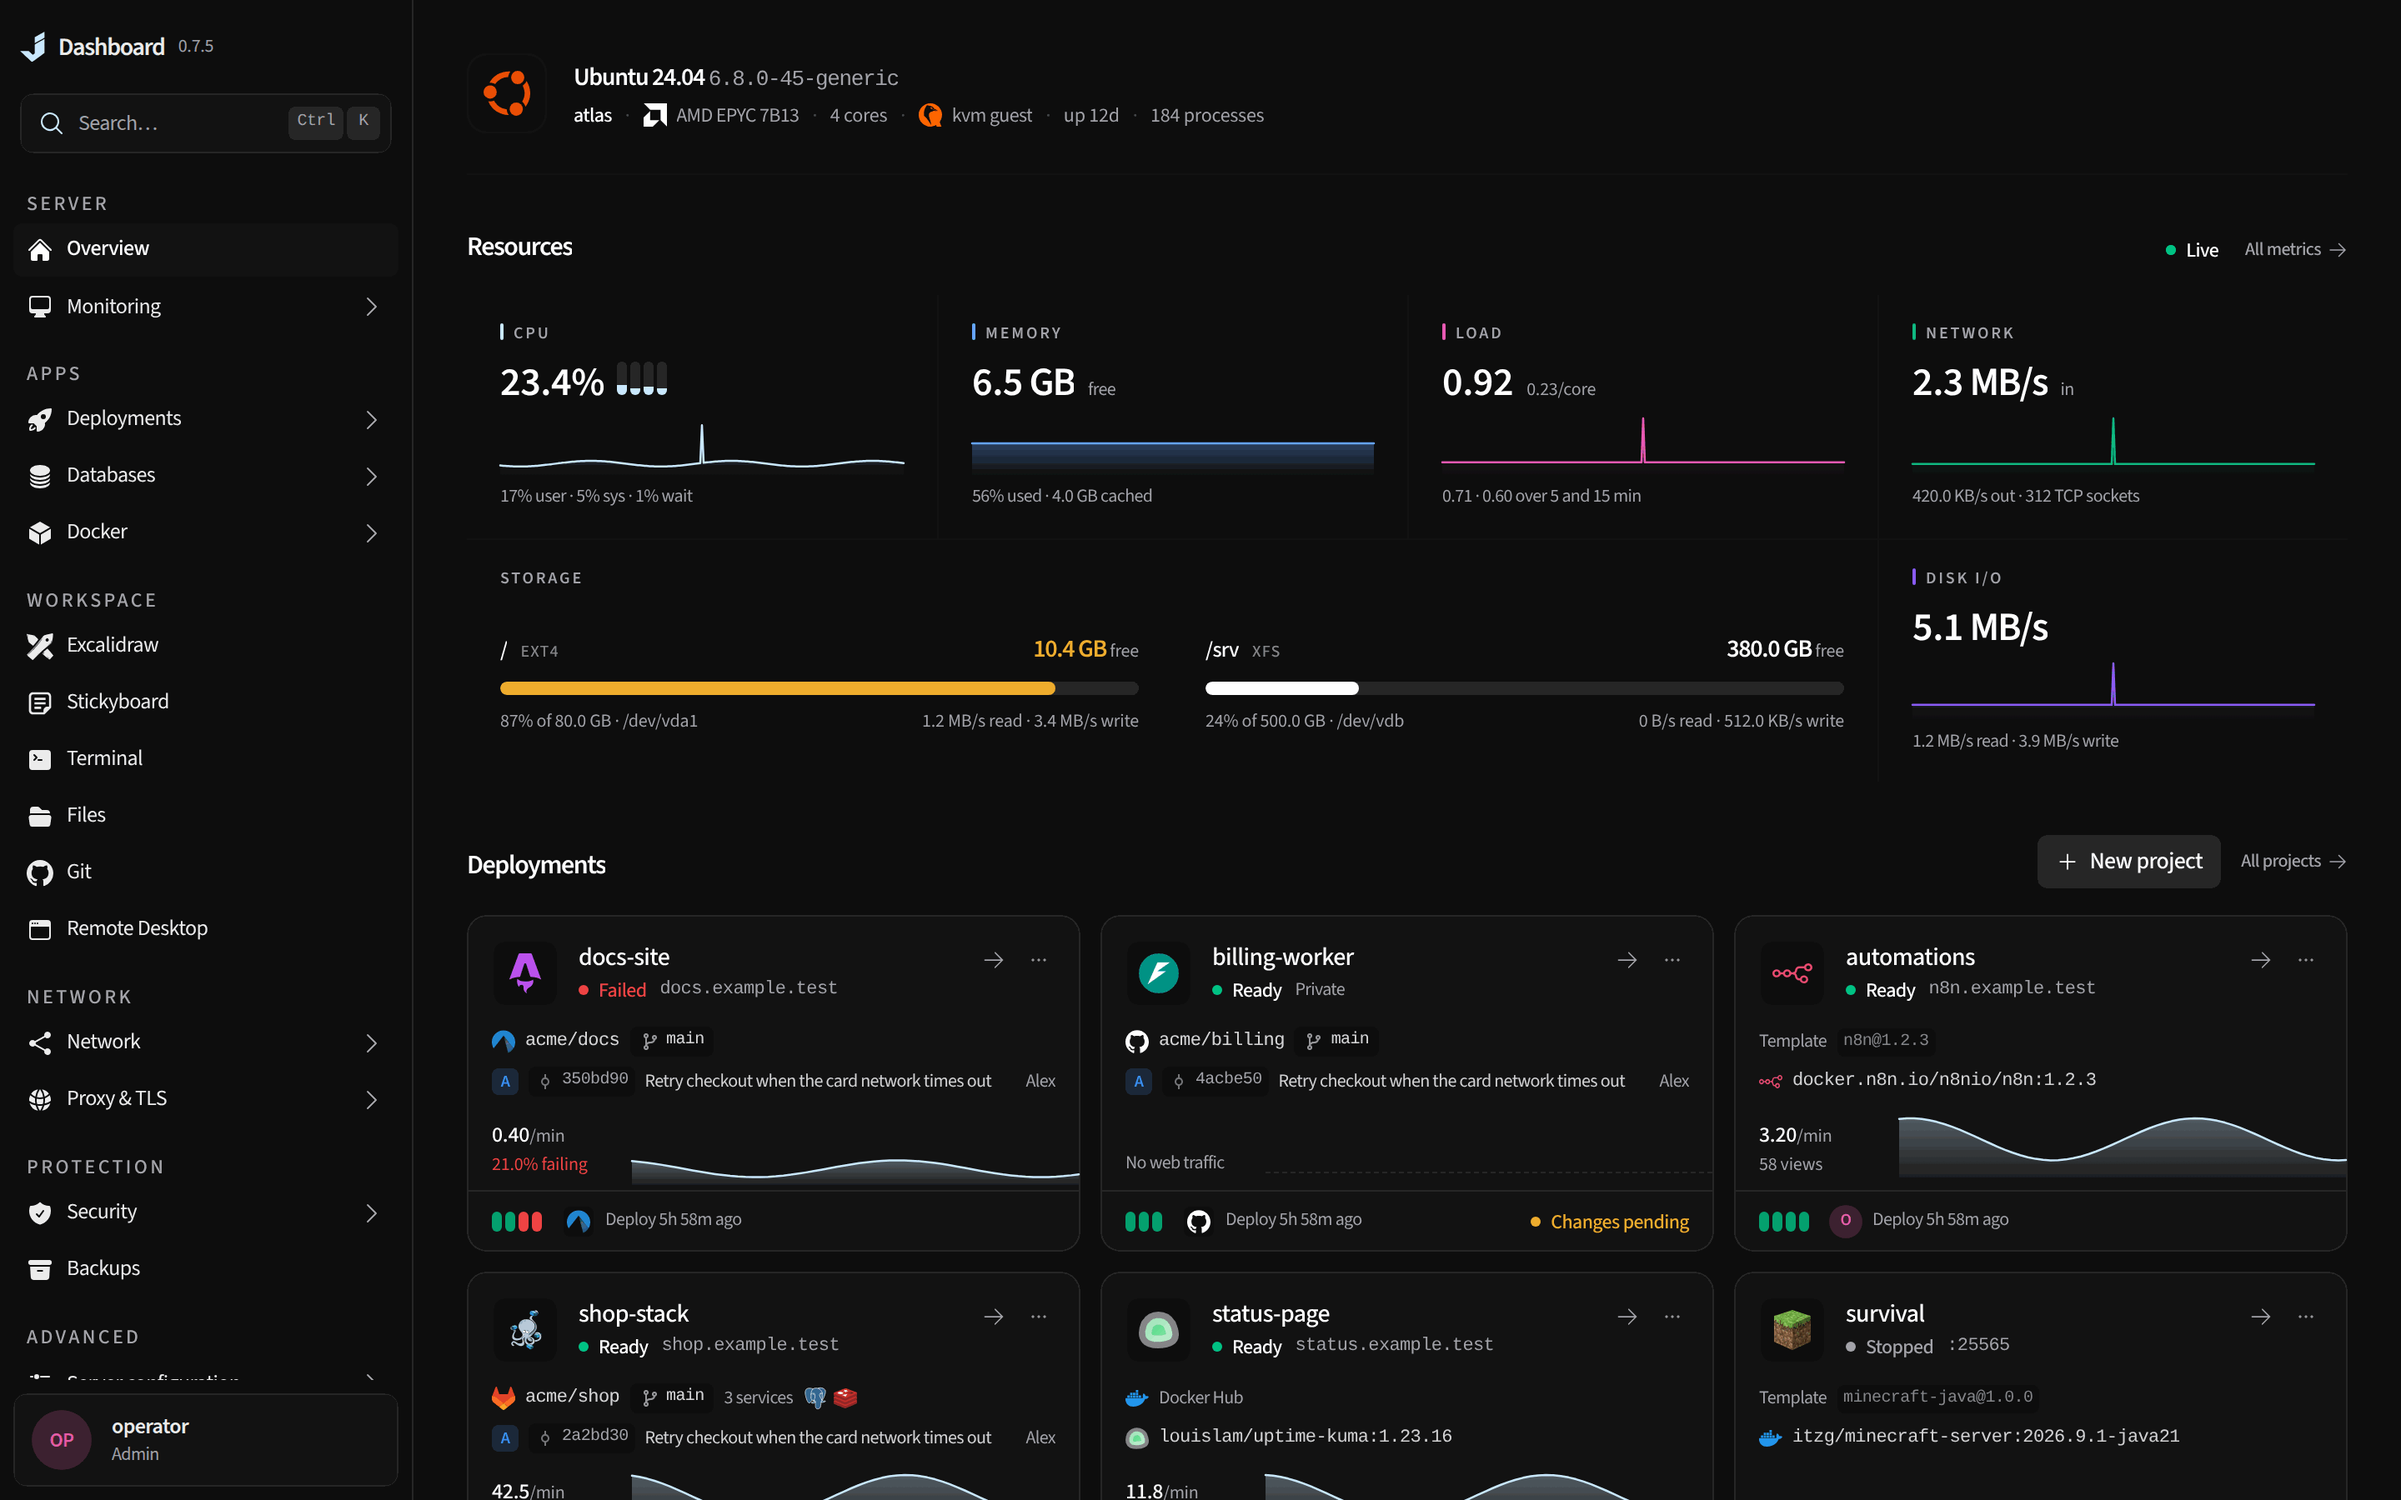
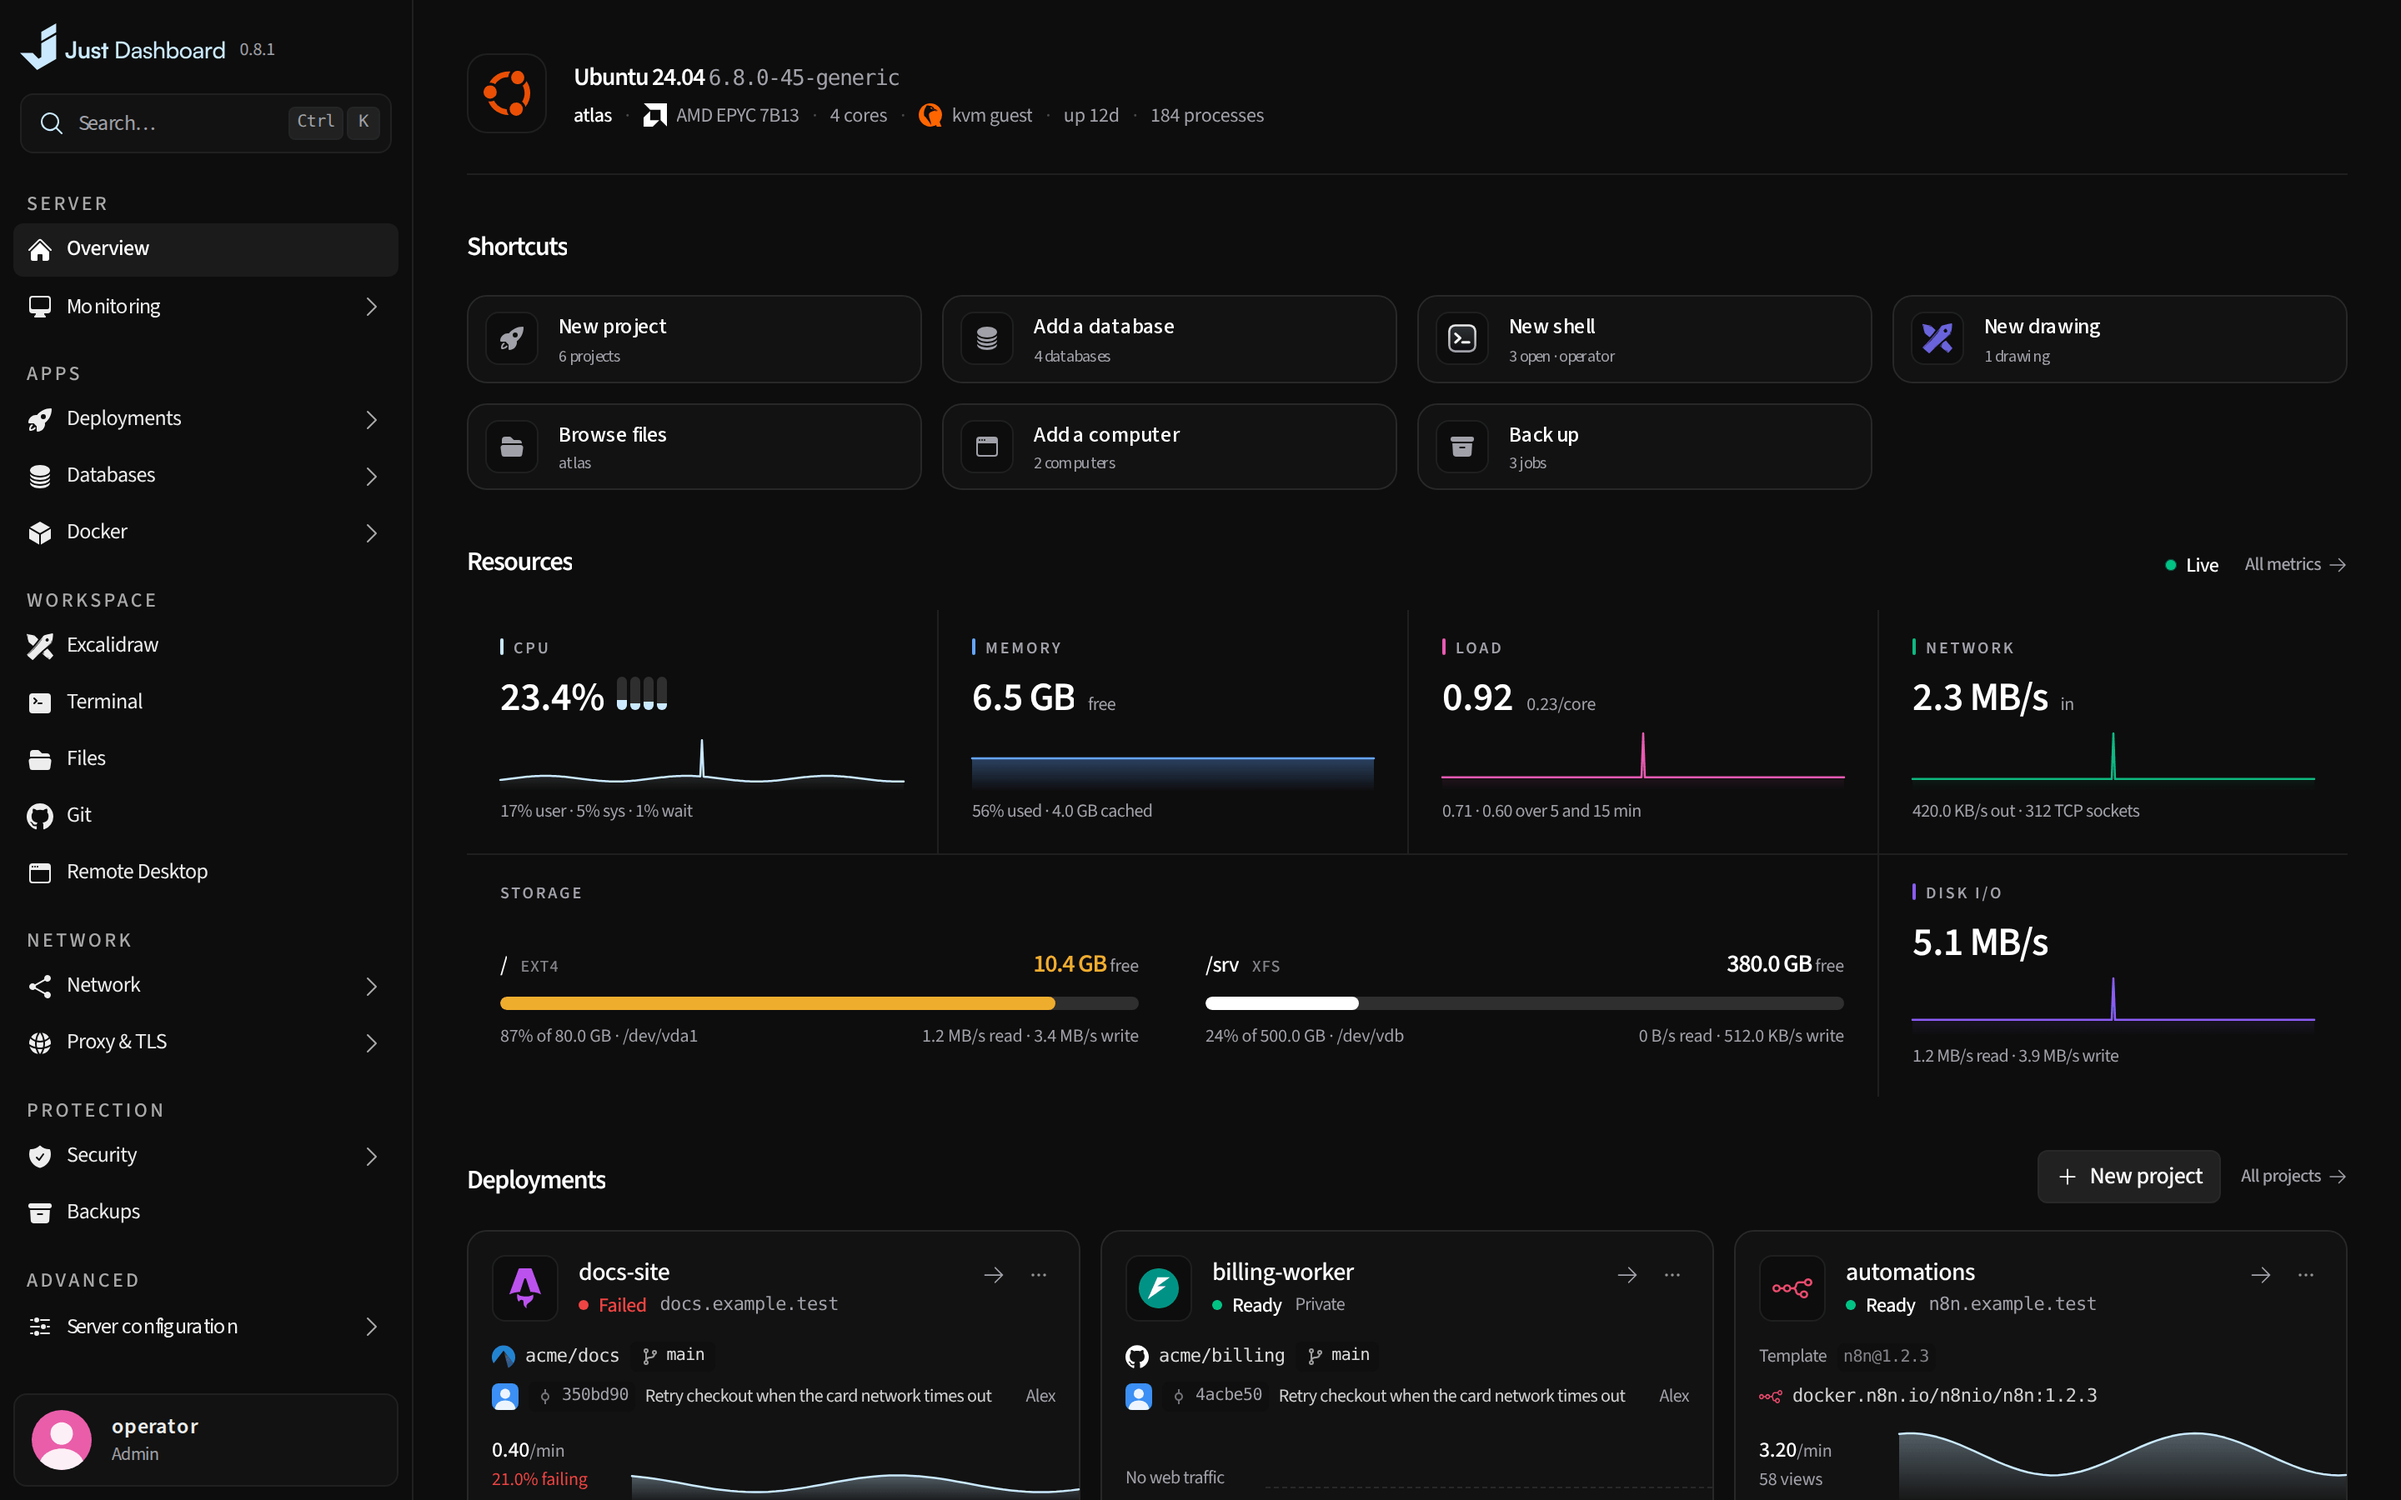
Show the 0.8 Overview and an Excalidraw drawing in the README
The hero screenshot is recaptured from the Overview's browser fixture at
1440x900 and twice the density, so it shows the shortcuts 0.8 added, and the
New in 0.8 section leads with a drawing opened against the boards fixture.
Both are 256-colour palettes, as the rest of the set is, and the caption says
which screenshots are 0.8.1 and which are still 0.7.5.

diff --git a/README.md b/README.md
@@ -24,9 +24,9 @@ backed up — behind one login that lives on your private network.
 
 <br>
 
-![The server overview: the machine drawn as itself, live resources with their last hour, storage and the deployed projects](docs/readme/overview.png)
+![The server overview: the machine drawn as itself, shortcuts to every section, live resources with their last hour, storage and the deployed projects](docs/readme/overview.png)
 
-<p align="center"><sub>Screenshots show version 0.7.5 with example data. The Overview has opened on shortcuts to every section since 0.8.</sub></p>
+<p align="center"><sub>Screenshots show example data: the Overview and Excalidraw at 0.8.1, the rest at 0.7.5.</sub></p>
 
 ---
 
@@ -281,6 +281,9 @@ free.
 </table>
 
 ### New in 0.8
+
+<img src="docs/readme/excalidraw.png" alt="An Excalidraw drawing of a release path from the internet through Caddy to a Next.js app, its PostgreSQL database and a nightly backup">
+<p align="center"><b>Excalidraw</b> — drawings kept on the server and edited together live</p>
 
 - **Drawings edited together:** Excalidraw is the Workspace's one board. Everyone with a drawing open
   edits it live; its images and the shape library are kept on the server; and a drawing can hold live
